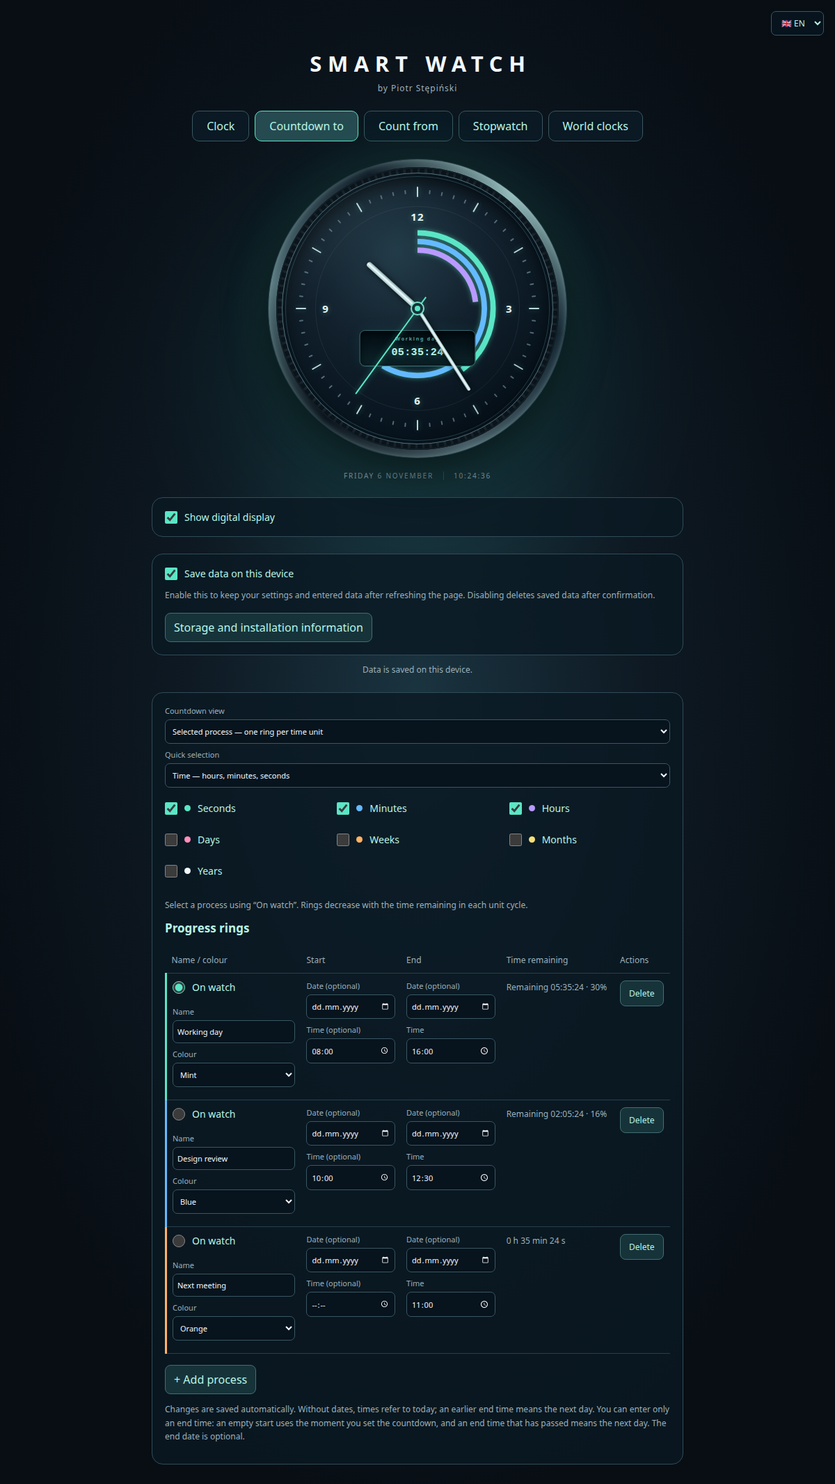
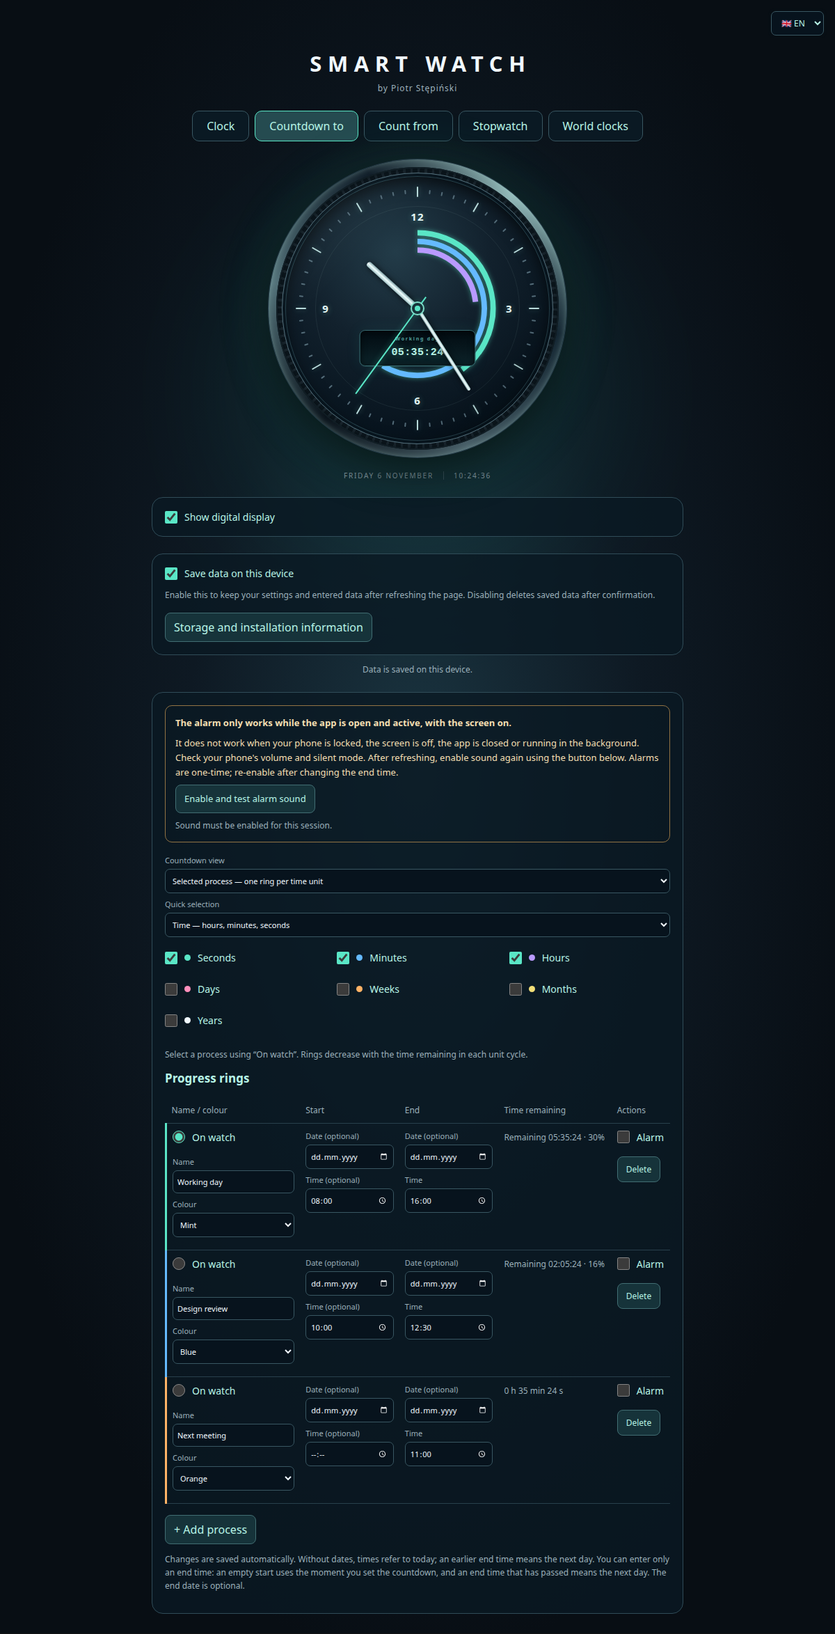
Add foreground countdown alarms with clear screen-on limitations

diff --git a/src/app/app.component.ts b/src/app/app.component.ts
@@ -2,6 +2,7 @@ import { afterRenderEffect, Component, computed, ElementRef, inject, OnDestroy, 
 import { FormsModule } from '@angular/forms';
 import { SwUpdate } from '@angular/service-worker';
 import { I18nService } from './i18n.service';
+import { AlarmService } from './alarm.service';
 import { StateService } from './state.service';
 import { WorldClocksComponent } from './world-clocks.component';
 import { UnitPickerComponent } from './unit-picker.component';
@@ -21,6 +22,7 @@ interface InstallEvent extends Event {
 })
 export class AppComponent implements OnDestroy {
   readonly storage = inject(StateService);
+  readonly alarms = inject(AlarmService);
   readonly state = this.storage.state;
   readonly i18n = inject(I18nService);
   readonly t = (text: string) => this.i18n.t(text);
@@ -33,13 +35,13 @@ export class AppComponent implements OnDestroy {
   readonly now = signal(Date.now());
   private readonly revision = signal(0);
   private monotonicStart = performance.now() - (restoredTimerElapsed(this.state.timer, Date.now()) - this.state.timer.accumulated);
-  private readonly interval = window.setInterval(() => this.now.set(Date.now()), 50);
+  private readonly interval = window.setInterval(() => { const now = Date.now(); this.alarms.check(now); this.now.set(now); }, 50);
   readonly installPrompt = signal<InstallEvent | null>(null);
   readonly updateReady = signal(false);
   readonly storageNotice = signal('');
   readonly storageDialog = viewChild.required<ElementRef<HTMLDialogElement>>('storageDialog');
   private readonly saveOnLeave = () => this.storage.save();
-  private readonly visibilityChanged = () => { if (document.hidden) this.storage.save(); else this.now.set(Date.now()); };
+  private readonly visibilityChanged = () => { if (document.hidden) { this.alarms.stopSound(); this.storage.save(); } else this.now.set(Date.now()); };
   private readonly beforeInstall = (event: Event) => { event.preventDefault(); this.installPrompt.set(event as InstallEvent); };
   private readonly installed = () => this.installPrompt.set(null);
   private readonly updates = inject(SwUpdate).versionUpdates.subscribe(event => {
@@ -152,6 +154,7 @@ export class AppComponent implements OnDestroy {
   }
   async allowStorage(): Promise<void> {
     if (await this.storage.enable()) {
+      this.alarms.dismiss();
       this.storageDialog().nativeElement.close();
       this.monotonicStart = performance.now() - (restoredTimerElapsed(this.state.timer, Date.now()) - this.state.timer.accumulated);
       this.i18n.syncLanguage();
@@ -164,6 +167,7 @@ export class AppComponent implements OnDestroy {
     if (checkbox.checked) await this.allowStorage();
     else if (window.confirm(this.t('Wyłączenie zapisu usunie zapisane ustawienia, procesy, zegary świata, historię stopera i pliki offline tej aplikacji oraz przywróci ustawienia domyślne. Czy kontynuować?'))) {
       if (await this.storage.disable()) {
+        this.alarms.dismiss();
         this.monotonicStart = performance.now();
         this.updateReady.set(false);
         this.storageNotice.set('Dane aplikacji zostały usunięte. Nowe zmiany pozostają tylko w pamięci tej karty.');
@@ -186,12 +190,29 @@ export class AppComponent implements OnDestroy {
     this.state.activeProcessId ??= id;
     this.changed();
   }
+  async toggleAlarm(entry: Process, event: Event): Promise<void> {
+    const input = event.target as HTMLInputElement;
+    if (!input.checked) { this.alarms.cancel(entry); this.changed(); return; }
+    const timing = processTiming(entry, new Date(), this.i18n.language());
+    if (timing.error || +timing.end <= Date.now()) {
+      this.alarms.error.set('Aby włączyć alarm, podaj prawidłowy termin końca w przyszłości.');
+      input.checked = false;
+      return;
+    }
+    if (!await this.alarms.prepare()) { input.checked = false; return; }
+    entry.alarmEnabled = true;
+    entry.alarmAt = +timing.end;
+    delete entry.alarmFiredAt;
+    this.changed();
+  }
   processTimeChanged(entry: Process): void {
+    this.alarms.cancel(entry);
     if (!entry.startDate && !entry.startTime) entry.automaticStart = Date.now();
     else delete entry.automaticStart;
     this.changed();
   }
   removeProcess(entry: Process): void {
+    this.alarms.cancel(entry);
     this.state.processes = this.state.processes.filter(item => item.id !== entry.id);
     if (this.state.activeProcessId === entry.id) this.state.activeProcessId = this.state.processes[0]?.id ?? null;
     this.changed();
@@ -285,6 +306,7 @@ export class AppComponent implements OnDestroy {
   reload(): void { window.location.reload(); }
   ngOnDestroy(): void {
     window.clearInterval(this.interval);
+    this.alarms.dismiss();
     this.updates.unsubscribe();
     window.removeEventListener('pagehide', this.saveOnLeave);
     document.removeEventListener('visibilitychange', this.visibilityChanged);

diff --git a/tests/e2e/alarms.spec.ts b/tests/e2e/alarms.spec.ts
@@ -1,0 +1,75 @@
+import { test, expect } from '@playwright/test';
+import type { Page } from '@playwright/test';
+
+test.use({ locale: 'pl-PL', timezoneId: 'Europe/Warsaw' });
+test.beforeEach(async ({ page }) => {
+  await page.addInitScript(() => {
+    localStorage.setItem('horizon.storageConsent.v1', 'granted');
+    const state = window as unknown as { alarmTones: number };
+    state.alarmTones = 0;
+    const original = AudioContext.prototype.createOscillator;
+    AudioContext.prototype.createOscillator = function () { state.alarmTones++; return original.call(this); };
+  });
+  await page.clock.setFixedTime(new Date('2026-01-01T11:59:58+01:00'));
+  await page.goto('/');
+  await page.getByRole('tab', { name: 'Odliczanie do', exact: true }).click();
+  await page.getByLabel('Godzina końca: Pasek 1', { exact: true }).fill('12:00');
+});
+const alarm = (page: Page) => page.getByRole('checkbox', { name: 'Alarm: Pasek 1', exact: true });
+const tones = (page: Page) => page.evaluate(() => (window as unknown as { alarmTones: number }).alarmTones);
+async function beforeDeadline(page: Page) {
+  await page.clock.setFixedTime(new Date('2026-01-01T11:59:59+01:00'));
+  await expect(page.locator('#digitalTime')).toHaveText('11:59:59');
+}
+
+test('alarm jednorazowy gra przy aktywnej aplikacji i pokazuje jasną informację o ograniczeniach', async ({ page }) => {
+  await expect(page.getByText('Alarm działa tylko przy otwartej, aktywnej aplikacji i włączonym ekranie.', { exact: true })).toBeVisible();
+  await alarm(page).check();
+  await expect(page.getByText('Dźwięk jest włączony w tej sesji.', { exact: true })).toBeVisible();
+  await beforeDeadline(page);
+  await page.clock.setFixedTime(new Date('2026-01-01T12:00:00+01:00'));
+  await expect(page.locator('.alarm-notices')).toContainText('Czas upłynął!');
+  expect(await tones(page)).toBe(12);
+  await expect(alarm(page)).not.toBeChecked();
+  await page.getByRole('button', { name: 'Zamknij alarm i wyłącz dźwięk', exact: true }).click();
+  await page.clock.setFixedTime(new Date('2026-01-01T12:00:01+01:00'));
+  await expect(page.locator('#digitalTime')).toHaveText('12:00:01');
+  await expect(page.locator('.alarm-notices')).toHaveCount(0);
+  expect(await tones(page)).toBe(12);
+  await page.reload();
+  await expect(alarm(page)).not.toBeChecked();
+});
+
+test('zmiana terminu anuluje alarm i nie pozwala ustawić go dla minionego celu', async ({ page }) => {
+  await alarm(page).check();
+  await page.getByLabel('Godzina końca: Pasek 1', { exact: true }).fill('13:00');
+  await expect(alarm(page)).not.toBeChecked();
+  await page.getByLabel('Godzina końca: Pasek 1', { exact: true }).fill('10:00');
+  await alarm(page).click();
+  await expect(alarm(page)).not.toBeChecked();
+  await expect(page.locator('.alarm-help')).toContainText('prawidłowy termin końca w przyszłości');
+});
+
+test('w tle nie odtwarza dźwięku i po powrocie informuje o miniętym terminie', async ({ page }) => {
+  await alarm(page).check();
+  await beforeDeadline(page);
+  await page.evaluate(() => { Object.defineProperty(document, 'visibilityState', { configurable: true, get: () => 'hidden' }); document.dispatchEvent(new Event('visibilitychange')); });
+  await page.clock.setFixedTime(new Date('2026-01-01T12:00:00+01:00'));
+  await expect(page.locator('.alarm-notices')).toContainText('Termin minął, gdy alarm nie mógł zadziałać.');
+  expect(await tones(page)).toBe(0);
+  await page.evaluate(() => { Object.defineProperty(document, 'visibilityState', { configurable: true, get: () => 'visible' }); });
+  await page.clock.setFixedTime(new Date('2026-01-01T12:00:01+01:00'));
+  await expect(page.locator('#digitalTime')).toHaveText('12:00:01');
+  expect(await tones(page)).toBe(0);
+});
+
+test('po przeładowaniu dźwięk wymaga gestu użytkownika, a przeterminowany alarm nie gra z opóźnieniem', async ({ page }) => {
+  await alarm(page).check();
+  await page.reload();
+  await expect(alarm(page)).toBeChecked();
+  await expect(page.getByText('Dźwięk wymaga włączenia w tej sesji.', { exact: true })).toBeVisible();
+  await beforeDeadline(page);
+  await page.clock.setFixedTime(new Date('2026-01-01T12:00:00+01:00'));
+  await expect(page.locator('.alarm-notices')).toContainText('Termin minął, gdy alarm nie mógł zadziałać.');
+  expect(await tones(page)).toBe(0);
+});

diff --git a/src/app/app.component.html b/src/app/app.component.html
@@ -41,6 +41,14 @@
       } @else { <button type="button" (click)="closeStorageInfo()">{{ t('Zamknij') }}</button> }
       </div>
   </dialog>
+  @if (alarms.notices().length) {
+    <aside class="alarm-notices range-form" role="alert">
+      @for (notice of alarms.notices(); track notice.id) {
+        <p><strong>{{ notice.name }}</strong>: {{ t(notice.missed ? 'Termin minął, gdy alarm nie mógł zadziałać. Pozostaw aplikację aktywną z włączonym ekranem i dźwiękiem.' : 'Czas upłynął!') }}</p>
+      }
+      <button type="button" (click)="alarms.dismiss()">{{ t('Zamknij alarm i wyłącz dźwięk') }}</button>
+    </aside>
+  }
   <div class="tabs" role="tablist" [attr.aria-label]="t('Tryb zegara')">
     @for (tab of tabs; track tab.id; let i = $index) {
       <button type="button" [id]="tab.id + 'Tab'" role="tab" [attr.aria-selected]="state.mode === tab.id" [attr.aria-controls]="tab.id + 'Panel'"
@@ -122,6 +130,13 @@
   <section id="clockPanel" role="tabpanel" aria-labelledby="clockTab" [hidden]="state.mode !== 'clock'"><p class="range-help">{{ t('Aktualna data i godzina.') }}</p></section>
   <section id="countdownPanel" role="tabpanel" aria-labelledby="countdownTab" [hidden]="state.mode !== 'countdown'">
     <div class="range-form">
+      <div class="alarm-help">
+        <strong>{{ t('Alarm działa tylko przy otwartej, aktywnej aplikacji i włączonym ekranie.') }}</strong>
+        <p>{{ t('Nie działa po zablokowaniu telefonu, wygaszeniu ekranu, zamknięciu aplikacji ani w tle. Sprawdź głośność i tryb wyciszenia telefonu. Po odświeżeniu strony ponownie włącz dźwięk przyciskiem poniżej. Alarm jest jednorazowy; po zmianie terminu włącz go ponownie.') }}</p>
+        <button type="button" (click)="alarms.testSound()" [disabled]="alarms.preparing()">{{ t('Włącz i przetestuj dźwięk alarmów') }}</button>
+        <span class="alarm-audio-status">{{ t(alarms.ready() ? 'Dźwięk jest włączony w tej sesji.' : 'Dźwięk wymaga włączenia w tej sesji.') }}</span>
+        @if (alarms.error()) { <p class="range-status error" role="alert">{{ t(alarms.error()) }}</p> }
+      </div>
       <label>{{ t('Widok odliczania') }}<select [(ngModel)]="state.countdownMode" (ngModelChange)="changed()"><option value="all">{{ t('Wszystkie procesy — jeden pasek na proces') }}</option><option value="single">{{ t('Wybrany proces — pasek na jednostkę czasu') }}</option></select></label>
       @if (state.countdownMode === 'single') {
         <app-unit-picker [selection]="state.countdownUnits" (selectionChange)="state.countdownUnits = $event; changed()" [label]="t('Odliczanie do')" />
@@ -146,7 +161,9 @@
               <td><label>{{ t('Data (opcjonalnie)') }}<input type="date" [(ngModel)]="entry.startDate" (ngModelChange)="processTimeChanged(entry)" [attr.aria-label]="t('Data początku: ') + entry.name"></label><label>{{ t('Godzina (opcjonalnie)') }}<input type="time" [(ngModel)]="entry.startTime" (ngModelChange)="processTimeChanged(entry)" [attr.aria-label]="t('Godzina początku: ') + entry.name"></label></td>
               <td><label>{{ t('Data (opcjonalnie)') }}<input type="date" [(ngModel)]="entry.endDate" (ngModelChange)="processTimeChanged(entry)" [attr.aria-label]="t('Data końca: ') + entry.name"></label><label>{{ t('Godzina') }}<input type="time" required [(ngModel)]="entry.endTime" (ngModelChange)="processTimeChanged(entry)" [attr.aria-label]="t('Godzina końca: ') + entry.name"></label></td>
               <td><p class="range-status" [class.error]="item.timing.error">{{ item.status }}</p></td>
-              <td><button type="button" (click)="removeProcess(entry)" [attr.aria-label]="t('Usuń: ') + entry.name">{{ t('Usuń') }}</button></td>
+              <td><label class="display-toggle"><input type="checkbox" [checked]="entry.alarmEnabled" [disabled]="alarms.preparing()" (change)="toggleAlarm(entry, $event)" [attr.aria-label]="t('Alarm: ') + entry.name">{{ t('Alarm') }}</label>
+                @if (entry.alarmFiredAt) { <p class="range-help">{{ t('Termin alarmu minął.') }}</p> }
+                <button type="button" (click)="removeProcess(entry)" [attr.aria-label]="t('Usuń: ') + entry.name">{{ t('Usuń') }}</button></td>
             </tr>
           }
         </tbody>

diff --git a/src/app/alarm.service.ts b/src/app/alarm.service.ts
@@ -1,0 +1,86 @@
+import { Injectable, inject, signal } from '@angular/core';
+import { StateService } from './state.service';
+import type { Process } from './models';
+
+export interface AlarmNotice { id: number; name: string; missed: boolean; }
+
+@Injectable({ providedIn: 'root' })
+export class AlarmService {
+  private readonly storage = inject(StateService);
+  private context: AudioContext | null = null;
+  private nodes: OscillatorNode[] = [];
+  private lastCheck = Date.now();
+  private wasVisible = document.visibilityState === 'visible';
+  readonly ready = signal(false);
+  readonly preparing = signal(false);
+  readonly error = signal('');
+  readonly notices = signal<AlarmNotice[]>([]);
+
+  async prepare(): Promise<boolean> {
+    if (this.preparing()) return false;
+    this.preparing.set(true);
+    try {
+      this.context ??= new AudioContext();
+      this.context.onstatechange = () => this.ready.set(this.context?.state === 'running');
+      await this.context.resume();
+      this.ready.set(this.context.state === 'running');
+      if (!this.ready()) throw new Error('Audio is suspended');
+      this.error.set('');
+      return true;
+    } catch {
+      this.ready.set(false);
+      this.error.set('Nie udało się włączyć dźwięku. Spróbuj ponownie i sprawdź ustawienia przeglądarki.');
+      return false;
+    } finally { this.preparing.set(false); }
+  }
+  async testSound(): Promise<void> { if (await this.prepare()) this.play(); }
+  check(now: number): void {
+    const visible = document.visibilityState === 'visible';
+    // Suspended pages and overdue restored alarms must not unexpectedly ring on return.
+    const active = visible && this.wasVisible && now >= this.lastCheck && now - this.lastCheck < 2000;
+    this.lastCheck = now;
+    this.wasVisible = visible;
+    const due = this.storage.state.processes.filter(entry => entry.alarmEnabled && entry.alarmAt !== undefined && entry.alarmAt <= now);
+    if (!due.length) return;
+    const notices = due.map(entry => {
+      const missed = !active || !this.ready() || !this.context || this.context.state !== 'running' || now - entry.alarmAt! > 2000;
+      entry.alarmEnabled = false;
+      entry.alarmFiredAt = entry.alarmAt;
+      return { id: entry.id, name: entry.name, missed };
+    });
+    this.notices.update(current => [...notices, ...current.filter(item => !notices.some(next => next.id === item.id))]);
+    if (notices.some(item => !item.missed)) this.play();
+    this.storage.save();
+  }
+  cancel(entry: Process): void {
+    entry.alarmEnabled = false;
+    delete entry.alarmAt;
+    delete entry.alarmFiredAt;
+    this.notices.update(items => items.filter(item => item.id !== entry.id));
+    if (!this.notices().length) this.stopSound();
+  }
+  dismiss(): void { this.stopSound(); this.notices.set([]); }
+  private play(): void {
+    const context = this.context;
+    if (!context || context.state !== 'running' || document.visibilityState !== 'visible') return;
+    this.stopSound();
+    // Six short pairs of beeps; never an indefinitely looping sound.
+    for (let index = 0; index < 12; index++) {
+      const oscillator = context.createOscillator();
+      const gain = context.createGain();
+      const start = context.currentTime + index * .35 + Math.floor(index / 2) * .25;
+      oscillator.frequency.value = index % 2 ? 880 : 660;
+      gain.gain.setValueAtTime(0, start);
+      gain.gain.linearRampToValueAtTime(.12, start + .02);
+      gain.gain.setValueAtTime(.12, start + .12);
+      gain.gain.linearRampToValueAtTime(0, start + .2);
+      oscillator.connect(gain); gain.connect(context.destination);
+      oscillator.start(start); oscillator.stop(start + .22);
+      this.nodes.push(oscillator);
+    }
+  }
+  stopSound(): void {
+    for (const node of this.nodes) { try { node.stop(); node.disconnect(); } catch { /* already ended */ } }
+    this.nodes = [];
+  }
+}

diff --git a/src/app/translations.ts b/src/app/translations.ts
@@ -1,6 +1,19 @@
 export type Language = 'pl' | 'en';
 
 const english: Record<string, string> = {
+  "Alarm": "Alarm",
+  "Alarm: ": "Alarm: ",
+  "Alarm działa tylko przy otwartej, aktywnej aplikacji i włączonym ekranie.": "The alarm only works while the app is open and active, with the screen on.",
+  "Nie działa po zablokowaniu telefonu, wygaszeniu ekranu, zamknięciu aplikacji ani w tle. Sprawdź głośność i tryb wyciszenia telefonu. Po odświeżeniu strony ponownie włącz dźwięk przyciskiem poniżej. Alarm jest jednorazowy; po zmianie terminu włącz go ponownie.": "It does not work when your phone is locked, the screen is off, the app is closed or running in the background. Check your phone's volume and silent mode. After refreshing, enable sound again using the button below. Alarms are one-time; re-enable after changing the end time.",
+  "Włącz i przetestuj dźwięk alarmów": "Enable and test alarm sound",
+  "Dźwięk jest włączony w tej sesji.": "Sound is enabled for this session.",
+  "Dźwięk wymaga włączenia w tej sesji.": "Sound must be enabled for this session.",
+  "Czas upłynął!": "Time is up!",
+  "Zamknij alarm i wyłącz dźwięk": "Dismiss alarm and stop sound",
+  "Termin alarmu minął.": "The alarm time has passed.",
+  "Termin minął, gdy alarm nie mógł zadziałać. Pozostaw aplikację aktywną z włączonym ekranem i dźwiękiem.": "The deadline passed while the alarm could not run. Keep the app active with the screen on and sound enabled.",
+  "Nie udało się włączyć dźwięku. Spróbuj ponownie i sprawdź ustawienia przeglądarki.": "Sound could not be enabled. Try again and check your browser settings.",
+  "Aby włączyć alarm, podaj prawidłowy termin końca w przyszłości.": "To enable an alarm, enter a valid future end time.",
   "Język komunikatu": "Popup language",
   "Zamknij": "Close",
   "Informacje o zapisie i instalacji": "Storage and installation information",

diff --git a/src/app/persistence.ts b/src/app/persistence.ts
@@ -25,7 +25,11 @@ export function isAppState(value: unknown): value is AppState {
   const processes = value['processes'];
   if (!Array.isArray(processes) || !processes.every(item => record(item) && natural(item['id']) &&
     strings(item, ['name', 'color', 'startDate', 'endDate', 'startTime', 'endTime']) &&
-    (item['automaticStart'] === undefined || amount(item['automaticStart'])) && PALETTE.some(color => color.color === item['color']) && typeof item['visible'] === 'boolean') || !uniqueIds(processes)) return false;
+    (item['automaticStart'] === undefined || amount(item['automaticStart'])) &&
+    (item['alarmEnabled'] === undefined || typeof item['alarmEnabled'] === 'boolean') &&
+    (item['alarmAt'] === undefined || amount(item['alarmAt'])) &&
+    (item['alarmFiredAt'] === undefined || amount(item['alarmFiredAt'])) &&
+    (item['alarmEnabled'] !== true || amount(item['alarmAt'])) && PALETTE.some(color => color.color === item['color']) && typeof item['visible'] === 'boolean') || !uniqueIds(processes)) return false;
   const countFrom = value['countFrom'];
   if (!Array.isArray(countFrom) || !countFrom.every(item => record(item) && natural(item['id']) &&
     strings(item, ['name', 'startDate', 'startTime']) && selection(item['units'])) || !uniqueIds(countFrom)) return false;

diff --git a/tests/time.test.ts b/tests/time.test.ts
@@ -165,3 +165,17 @@ test('migracja dodaje zegary bez utraty stanu, pusty zestaw i własne miasta poz
   assert.equal(isAppState(state), true);
   state.worldClocks[0].timeZone = 'Bad/Zone'; assert.equal(isAppState(state), false);
 });
+
+test('stan alarmu jest opcjonalny, walidowany i zachowywany w zapisie', () => {
+  const state = createState();
+  assert.equal(isAppState(state), true);
+  const process = state.processes[0];
+  process.alarmEnabled = true;
+  assert.equal(isAppState(state), false);
+  process.alarmAt = Date.now() + 60000;
+  assert.equal(isAppState(state), true);
+  const store = { getItem: () => JSON.stringify(state), setItem: () => {} };
+  assert.equal(loadState(store).state.processes[0].alarmAt, process.alarmAt);
+  process.alarmAt = -1;
+  assert.equal(isAppState(state), false);
+});

diff --git a/src/styles.css b/src/styles.css
@@ -194,3 +194,8 @@ app-root, .stage, .range-form { min-width: 0; }
   .storage-popup-header { gap: 8px; }
   .storage-popup-header h2 { font-size: 16px; }
 }
+.alarm-help { padding: 14px; margin-bottom: 18px; border: 1px solid #927344; border-radius: 10px; color: #f4dfb2; font-size: 13px; line-height: 1.6; }
+.alarm-help p { margin: 8px 0; }
+.alarm-help .range-status { margin-top: 10px; }
+.alarm-audio-status { display: block; margin-top: 8px; color: #9bb0ba; font-size: 12px; }
+.alarm-notices { border-color: #f4df77; }

diff --git a/src/app/models.ts b/src/app/models.ts
@@ -4,6 +4,9 @@ export type Mode = 'clock' | 'countdown' | 'stopwatch' | 'timer' | 'world';
 export type UnitSelection = boolean[];
 export interface Process {
   automaticStart?: number;
+  alarmEnabled?: boolean;
+  alarmAt?: number;
+  alarmFiredAt?: number;
   id: number;
   name: string;
   color: string;

diff --git a/README.md b/README.md
@@ -158,6 +158,19 @@ Widoczność sekund, minut, godzin, dni, tygodni, miesięcy i lat ustala się pr
 
 ![Countdown to — wybrany proces i osobne pierścienie jednostek](docs/screenshots/countdown-single.png)
 
+### Alarm końca procesu
+
+Każdy proces ma opcję **Alarm**. Włączenie ustawia jednorazowy alarm na wyliczoną datę i godzinę końca, również gdy wpisano tylko godzinę celu. Cel musi być prawidłowy i przyszły. Ukrycie procesu na tarczy nie wyłącza jego alarmu.
+
+**Alarm działa tylko przy otwartej, aktywnej aplikacji i włączonym ekranie. Nie działa po zablokowaniu telefonu, wygaszeniu ekranu, zamknięciu aplikacji ani w tle — także w zainstalowanej PWA.** Ta informacja jest widoczna obok ustawień alarmu w PL i EN. Nie jest to natywny budzik ani powiadomienie push.
+
+- Włączenie alarmu aktywuje dźwięk w bieżącej sesji. Przycisk **Enable and test alarm sound** pozwala sprawdzić, czy dźwięk jest słyszalny; trzeba uwzględnić głośność i wyciszenie telefonu.
+- Po odświeżeniu lub ponownym otwarciu strony ponownie użyj przycisku aktywacji dźwięku. Przeglądarka wymaga interakcji użytkownika; zapamiętany termin sam nie odblokowuje audio.
+- O końcu procesu informują krótkie sygnały oraz komunikat z nazwą procesu. Przycisk zamknięcia alarmu przerywa dźwięk. Sygnały kończą się również automatycznie po krótkiej sekwencji.
+- Alarm jest jednorazowy. Zmiana początku lub końca procesu anuluje alarm — po edycji włącz go ponownie. Usunięcie procesu również go anuluje.
+- Jeśli aplikacja była nieaktywna, dźwięk nie był odblokowany albo strona wznowiła się po przerwie, pokazuje informację o miniętym terminie i nie odtwarza zaległego dźwięku.
+- Zgoda na zapis pozwala zapamiętać termin i stan alarmu. Wyłączenie zapisu oraz reset danych usuwa alarmy. Obsługa alarmów nie wysyła danych na serwer i nie wymaga uprawnień do powiadomień.
+
 ### Karuzela na telefonie
 
 Dwie karty przedstawiają ten sam zestaw danych: tarczę oraz podsumowanie. Przełączanie kart nie zmienia procesów ani ich widoczności.
@@ -401,6 +414,7 @@ Zestaw obejmuje popup zgody, wszystkie pięć zakładek, oba widoki „Odliczani
 | `src/app/world-clocks.ts` | Katalog miast, zestaw domyślny i obliczenia czasu w strefach. |
 | `src/app/models.ts` | Model stanu i wartości domyślne. |
 | `src/app/time.ts` | Obliczenia i formatowanie czasu. |
+| `src/app/alarm.service.ts` | Jednorazowe alarmy w aktywnej aplikacji, Web Audio i obsługa miniętych terminów. |
 | `src/app/state.service.ts`, `src/app/persistence.ts`, `src/app/storage-consent.ts` | Zgoda, włączanie i wyłączanie zapisu, usuwanie danych/cache, walidacja i migracja. |
 | `src/app/i18n.service.ts`, `src/app/translations.ts` | PL/EN, wykrywanie języka i słownik. |
 | `src/styles.css` | Wygląd, responsywność i karuzela. |
